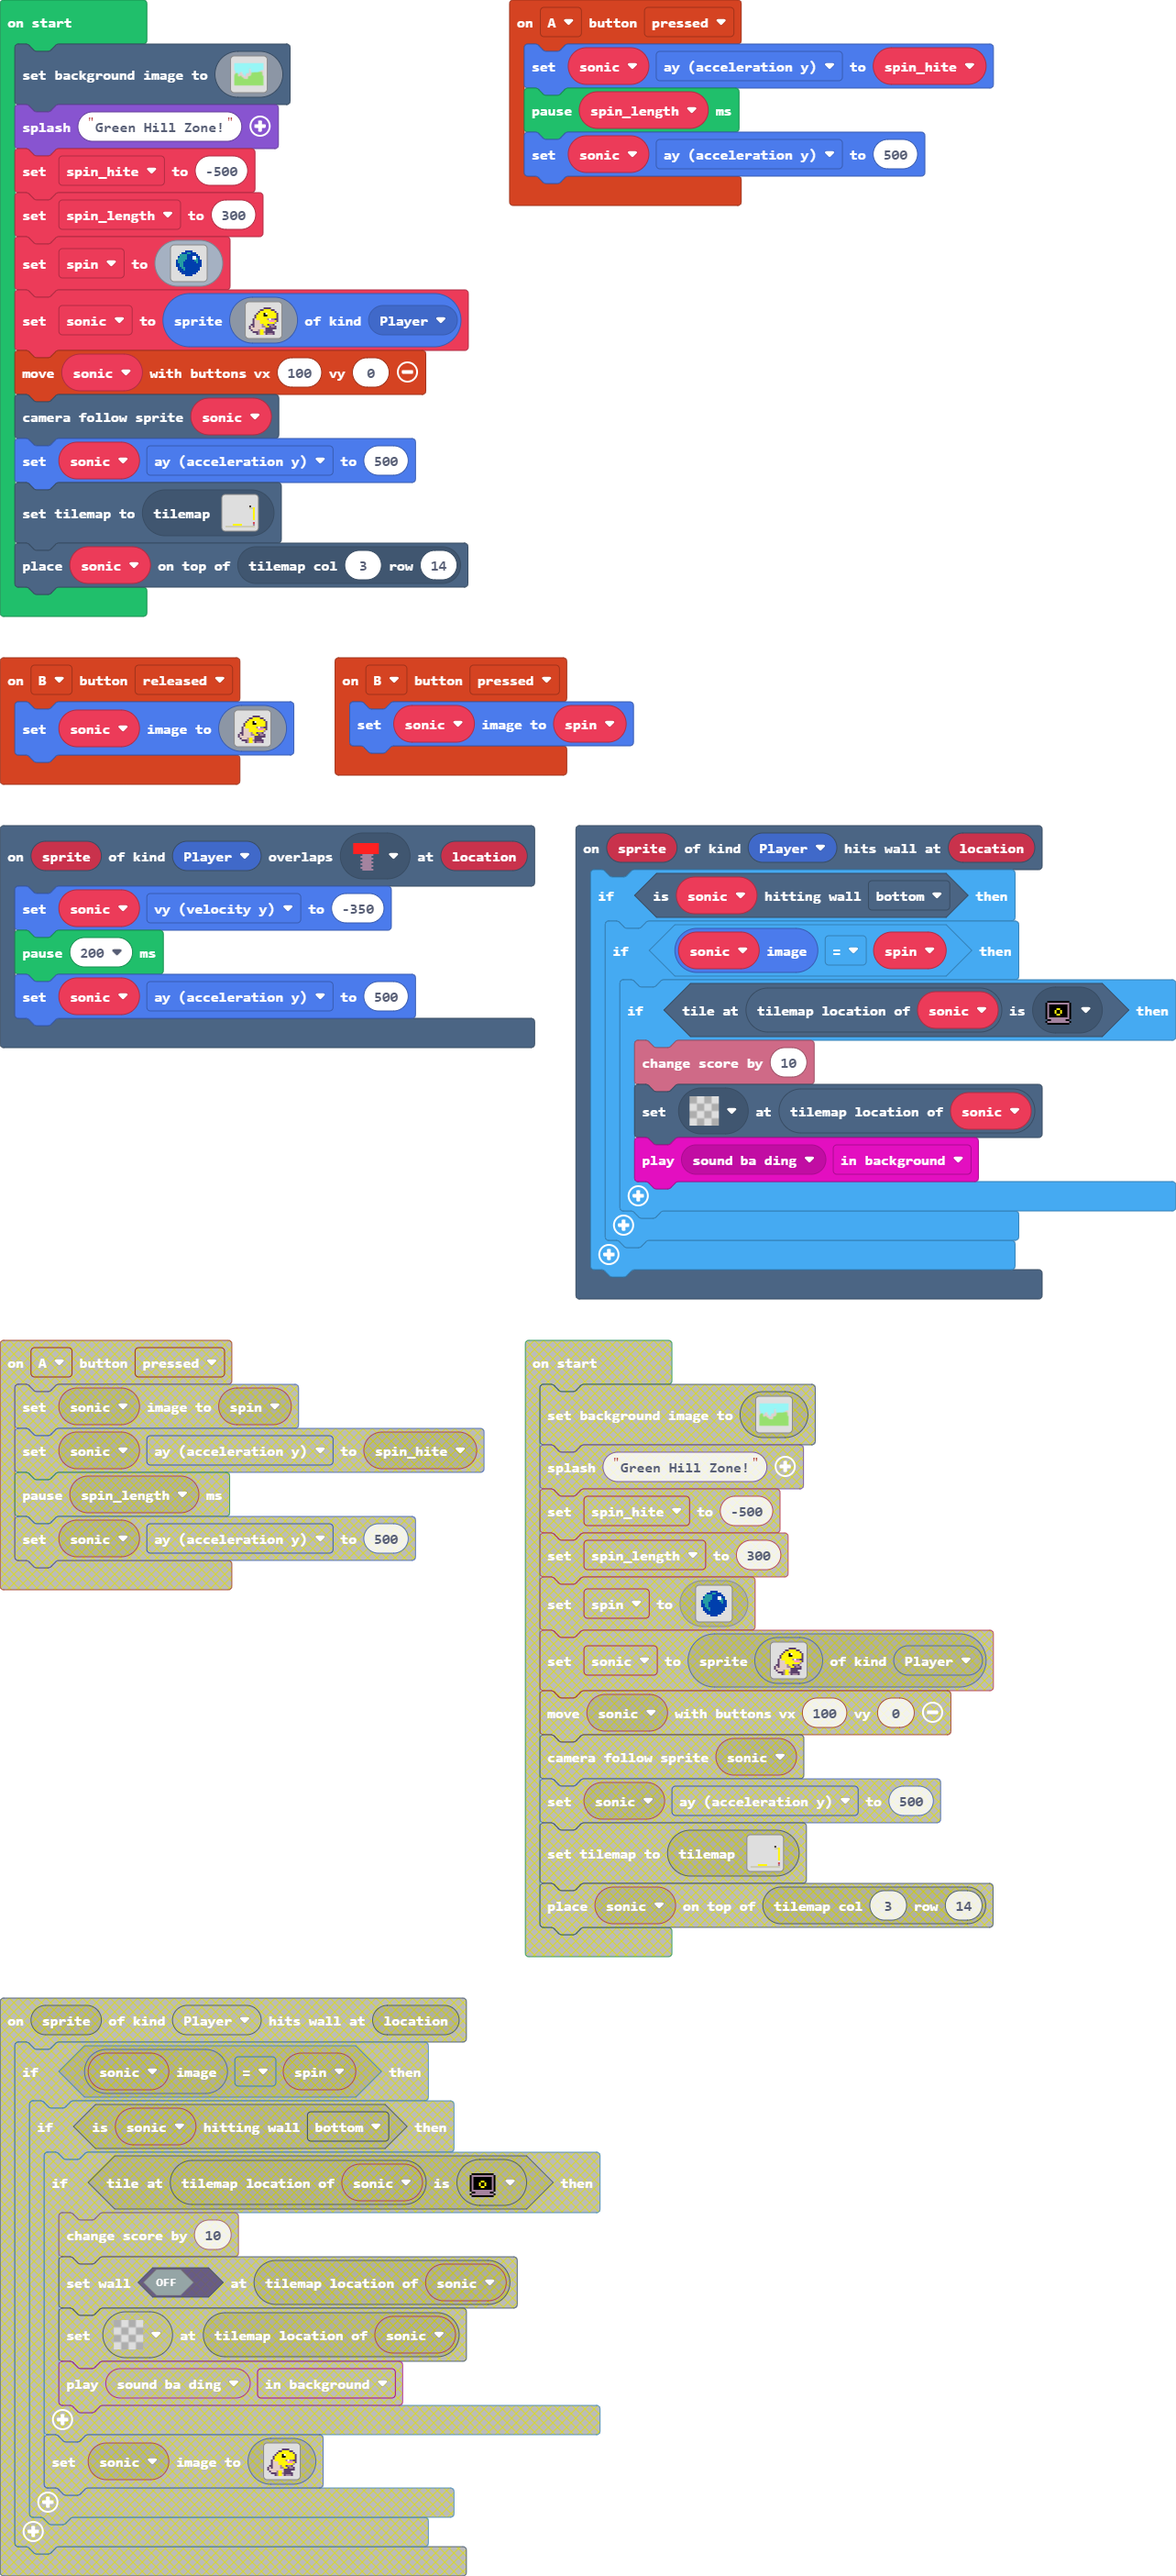
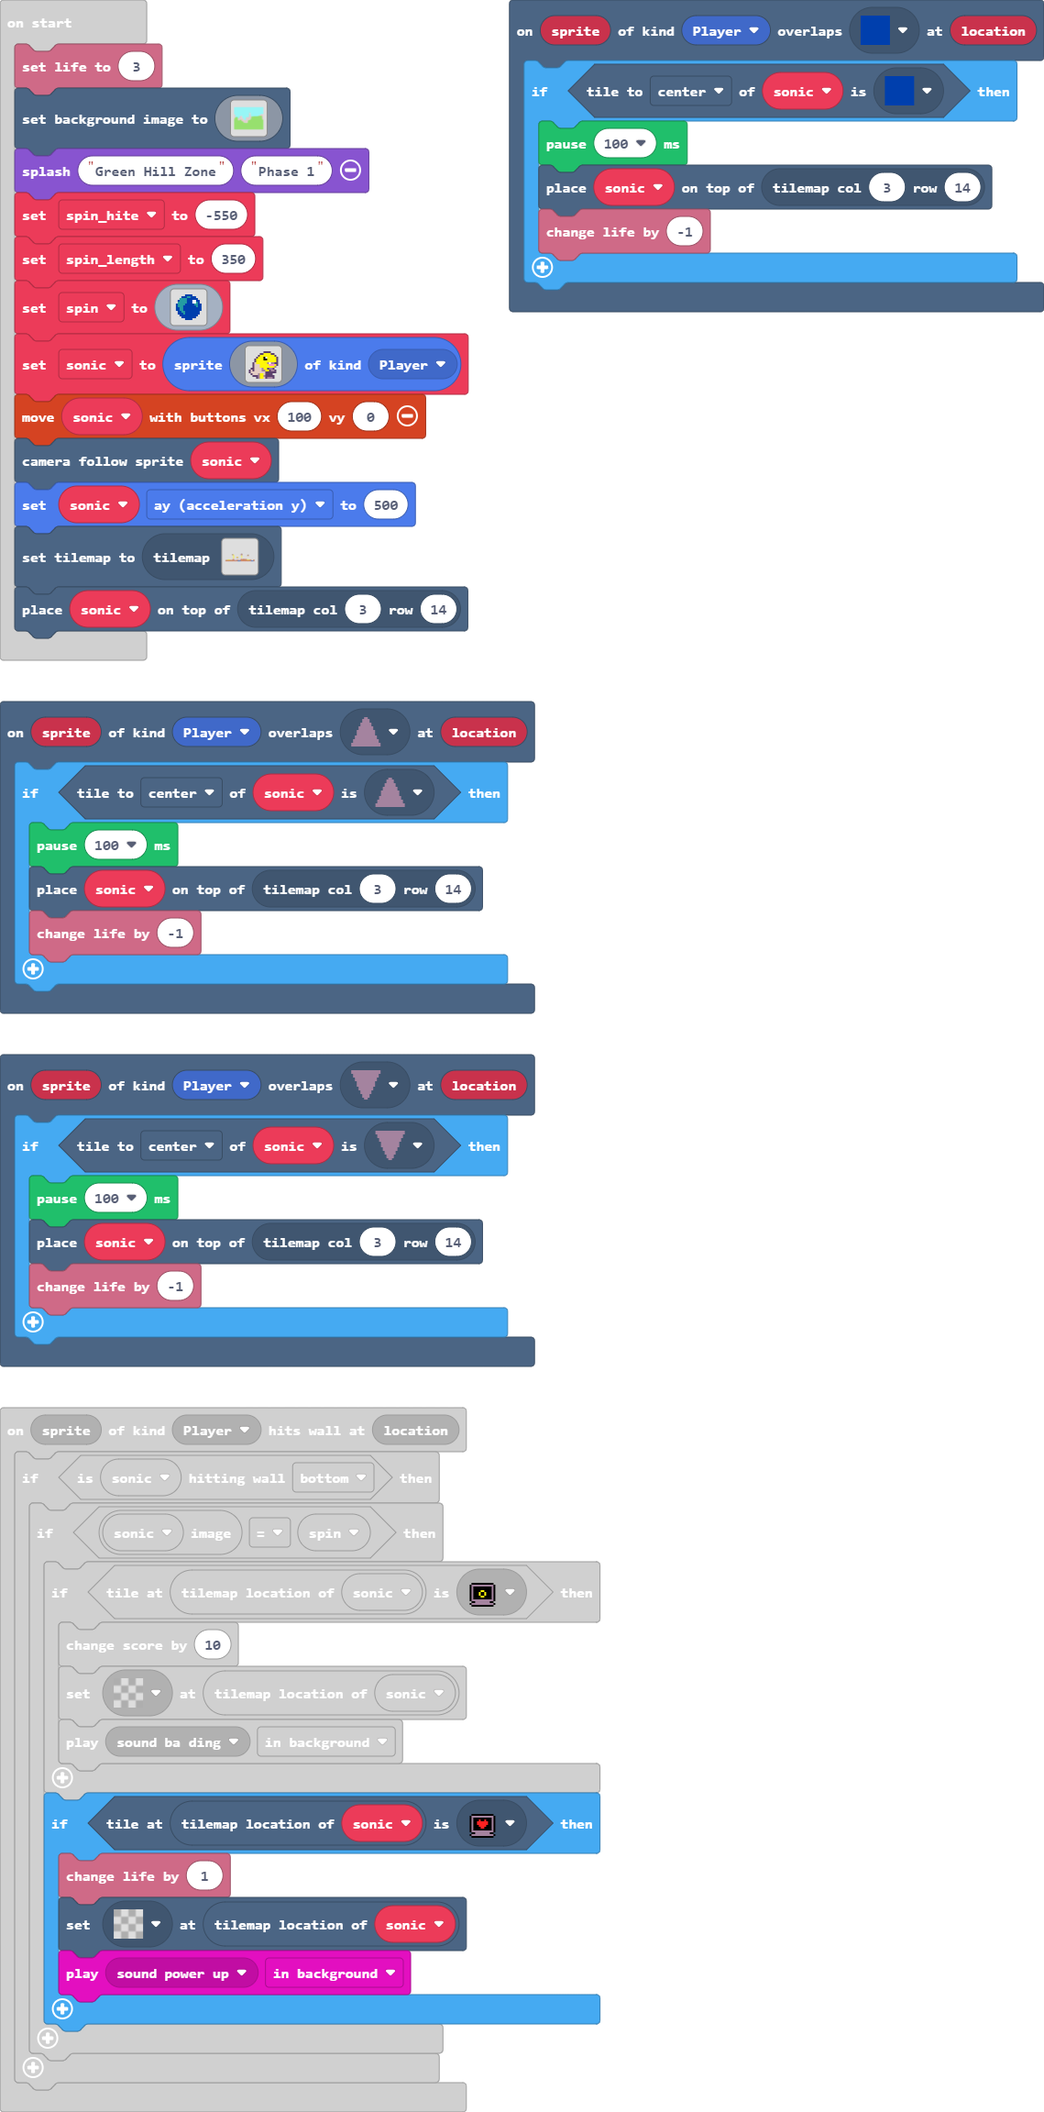
Update main.blocks, main.ts, tilemap.g.jres, tilemap.g.ts

diff --git a/tilemap.g.ts b/tilemap.g.ts
@@ -11,29 +11,24 @@ namespace myTiles {
     //% fixedInstance jres blockIdentity=images._tile
     export const tile4 = image.ofBuffer(hex``);
     //% fixedInstance jres blockIdentity=images._tile
+    export const tile6 = image.ofBuffer(hex``);
+    //% fixedInstance jres blockIdentity=images._tile
     export const tile5 = image.ofBuffer(hex``);
+    //% fixedInstance jres blockIdentity=images._tile
+    export const tile7 = image.ofBuffer(hex``);
+    //% fixedInstance jres blockIdentity=images._tile
+    export const tile8 = image.ofBuffer(hex``);
+    //% fixedInstance jres blockIdentity=images._tile
+    export const tile9 = image.ofBuffer(hex``);
+    //% fixedInstance jres blockIdentity=images._tile
+    export const tile10 = image.ofBuffer(hex``);
+    //% fixedInstance jres blockIdentity=images._tile
+    export const tile11 = image.ofBuffer(hex``);
+    //% fixedInstance jres blockIdentity=images._tile
+    export const tile12 = image.ofBuffer(hex``);
 
     helpers._registerFactory("tilemap", function(name: string) {
         switch(helpers.stringTrim(name)) {
-            case "level1":
-            case "level1":return tiles.createTilemap(hex`1000100000000000000000000000000000000000000000000000000000000000000000000000000000000000000000000000000000000000000000000000000000000000000000000000000000000000000300000000000000000000000000000006060200000000000000000000000000000002000000000000000000000000000000020000000000000000000000000000000200000000000000000000000000000002000000000000000000000000000000020000000000000000000000000000000200000000000000000000000000000000000000000000000000000000000000050000000002020202020000000000000401010101010101010101010101010101`, img`
-. . . . . . . . . . . . . . . . 
-. . . . . . . . . . . . . . . . 
-. . . . . . . . . . . . . . . . 
-. . . . . . . . . . . . . . . . 
-. . . . . . . . . . . . . . . . 
-. . . . . . . . . . . . . 2 2 . 
-. . . . . . . . . . . . . . . . 
-. . . . . . . . . . . . . . . . 
-. . . . . . . . . . . . . . . . 
-. . . . . . . . . . . . . . . . 
-. . . . . . . . . . . . . . . . 
-. . . . . . . . . . . . . . . . 
-. . . . . . . . . . . . . . . . 
-. . . . . . . . . . . . . . . . 
-. . . . . . . . . . . . . . . 2 
-2 2 2 2 2 2 2 2 2 2 2 2 2 2 2 2 
-`, [myTiles.transparency16,sprites.castle.tilePath2,myTiles.tile1,myTiles.tile2,myTiles.tile3,myTiles.tile4,myTiles.tile5], TileScale.Sixteen);
             case "level2":
             case "level2":return tiles.createTilemap(hex`1000100000000000000000000000000000000000000000000000000000000000000000000000000000000000000000000000000000000000000000000000000000000000000000000000000000000000000000000000000000000000000000000000000000000000000000000000000000000000000000000000000000000000000000000000000000000000000000000000000000000000000000000000000000000000000000000000000000000000000000000000000000000000000000000000000000000000000000000000000000000000000000000000000000000000000000000000000000000000000000000000000000000000000000000000000000000000`, img`
 . . . . . . . . . . . . . . . . 
@@ -53,6 +48,45 @@ namespace myTiles {
 . . . . . . . . . . . . . . . . 
 . . . . . . . . . . . . . . . . 
 `, [myTiles.transparency16], TileScale.Sixteen);
+            case "level3":
+            case "level3":return tiles.createTilemap(hex`1000100000000000000000000000000000000000000000000000000000000000000000000000000000000000000000000000000000000000000000000000000000000000000000000000000000000000000000000000000000000000000000000000000000000000000000000000000000000000000000000000000000000000000000000000000000000000000000000000000000000000000000000000000000000000000000000000000000000000000000000000000000000000000000000000000000000000000000000000000000000000000000000000000000000000000000000000000000000000000000000000000000000000000000000000000000000000`, img`
+. . . . . . . . . . . . . . . . 
+. . . . . . . . . . . . . . . . 
+. . . . . . . . . . . . . . . . 
+. . . . . . . . . . . . . . . . 
+. . . . . . . . . . . . . . . . 
+. . . . . . . . . . . . . . . . 
+. . . . . . . . . . . . . . . . 
+. . . . . . . . . . . . . . . . 
+. . . . . . . . . . . . . . . . 
+. . . . . . . . . . . . . . . . 
+. . . . . . . . . . . . . . . . 
+. . . . . . . . . . . . . . . . 
+. . . . . . . . . . . . . . . . 
+. . . . . . . . . . . . . . . . 
+. . . . . . . . . . . . . . . . 
+. . . . . . . . . . . . . . . . 
+`, [myTiles.transparency16], TileScale.Sixteen);
+            case "level1":
[1 lines of base64/hex data omitted]
+.......................................................
+.......................................................
+.......................................................
+.......................................................
+.............................222.......................
+.............22........................................
+.........................................222...........
+.......................................................
+.......................................................
+.......................................................
+.....................222...............................
+.......................................................
+.......................................................
+..............2..............2..22222..2...............
+.............2222.....222..2222222222222......222...222
+22222222222222222....22.2..2.22222222222222222222...222
+22222222222222222222222......2222222222222222222.....22
+`, [myTiles.transparency16,myTiles.tile1,myTiles.tile2,myTiles.tile3,myTiles.tile4,myTiles.tile5,myTiles.tile6,myTiles.tile7,myTiles.tile8,myTiles.tile9,myTiles.tile10,myTiles.tile12], TileScale.Sixteen);
         }
         return null;
     })
@@ -68,8 +102,22 @@ namespace myTiles {
             case "tile3":return tile3;
             case "myTile2":
             case "tile4":return tile4;
+            case "myTile4":
+            case "tile6":return tile6;
             case "myTile3":
             case "tile5":return tile5;
+            case "myTile5":
+            case "tile7":return tile7;
+            case "myTile6":
+            case "tile8":return tile8;
+            case "myTile7":
+            case "tile9":return tile9;
+            case "myTile8":
+            case "tile10":return tile10;
+            case "myTile9":
+            case "tile11":return tile11;
+            case "myTile10":
+            case "tile12":return tile12;
         }
         return null;
     })

diff --git a/main.ts b/main.ts
@@ -6,6 +6,11 @@ scene.onHitWall(SpriteKind.Player, function (sprite, location) {
                 tiles.setTileAt(sonic.tilemapLocation(), assets.tile`transparency16`)
                 music.play(music.melodyPlayable(music.baDing), music.PlaybackMode.InBackground)
             }
+            if (tiles.tileAtLocationEquals(sonic.tilemapLocation(), assets.tile`myTile10`)) {
+                info.changeLifeBy(1)
+                tiles.setTileAt(sonic.tilemapLocation(), assets.tile`transparency16`)
+                music.play(music.melodyPlayable(music.powerUp), music.PlaybackMode.InBackground)
+            }
         }
     }
 })
@@ -22,6 +27,13 @@ controller.A.onEvent(ControllerButtonEvent.Pressed, function () {
     pause(spin_length)
     sonic.ay = 500
 })
+scene.onOverlapTile(SpriteKind.Player, assets.tile`myTile7`, function (sprite, location) {
+    if (sonic.tileKindAt(TileDirection.Center, assets.tile`myTile7`)) {
+        pause(100)
+        tiles.placeOnTile(sonic, tiles.getTileLocation(3, 14))
+        info.changeLifeBy(-1)
+    }
+})
 controller.left.onEvent(ControllerButtonEvent.Pressed, function () {
     if (!(sonic.image == spin)) {
         sonic.setImage(assets.image`sonicL`)
@@ -32,10 +44,24 @@ controller.right.onEvent(ControllerButtonEvent.Pressed, function () {
         sonic.setImage(assets.image`sonicR`)
     }
 })
+scene.onOverlapTile(SpriteKind.Player, assets.tile`myTile8`, function (sprite, location) {
+    if (sonic.tileKindAt(TileDirection.Center, assets.tile`myTile8`)) {
+        pause(100)
+        tiles.placeOnTile(sonic, tiles.getTileLocation(3, 14))
+        info.changeLifeBy(-1)
+    }
+})
 scene.onOverlapTile(SpriteKind.Player, assets.tile`myTile2`, function (sprite, location) {
     sonic.vy = -350
     pause(200)
     sonic.ay = 500
+})
+scene.onOverlapTile(SpriteKind.Player, assets.tile`myTile5`, function (sprite, location) {
+    if (sonic.tileKindAt(TileDirection.Center, assets.tile`myTile5`)) {
+        pause(100)
+        tiles.placeOnTile(sonic, tiles.getTileLocation(3, 14))
+        info.changeLifeBy(-1)
+    }
 })
 controller.B.onEvent(ControllerButtonEvent.Released, function () {
     sonic.setImage(assets.image`sonicR`)
@@ -44,6 +70,7 @@ let sonic: Sprite = null
 let spin: Image = null
 let spin_length = 0
 let spin_hite = 0
+info.setLife(3)
 scene.setBackgroundImage(img`
     9999999999999999999999999999999999999999999999999999999999999999999999999999999999999999999999999999999999999999999999999999999999999999999999999999999999999999
     9999999999999999999999999999999999999999999999999999999999999999999999999999999999999999999999999999999999999999999999999999999999999999999999999999999999999999
@@ -166,9 +193,9 @@ scene.setBackgroundImage(img`
     7777777777777777777777777777777777777777777777777777777777777777777777777777777777777777777777777777777777777777777777777777777777777777777777777777777777777777
     7777777777777777777777777777777777777777777777777777777777777777777777777777777777777777777777777777777777777777777777777777777777777777777777777777777777777777
     `)
-game.splash("Green Hill Zone!")
-spin_hite = -500
-spin_length = 300
+game.splash("Green Hill Zone", "Phase 1")
+spin_hite = -550
+spin_length = 350
 spin = assets.image`spin`
 sonic = sprites.create(assets.image`sonicR`, SpriteKind.Player)
 controller.moveSprite(sonic, 100, 0)
